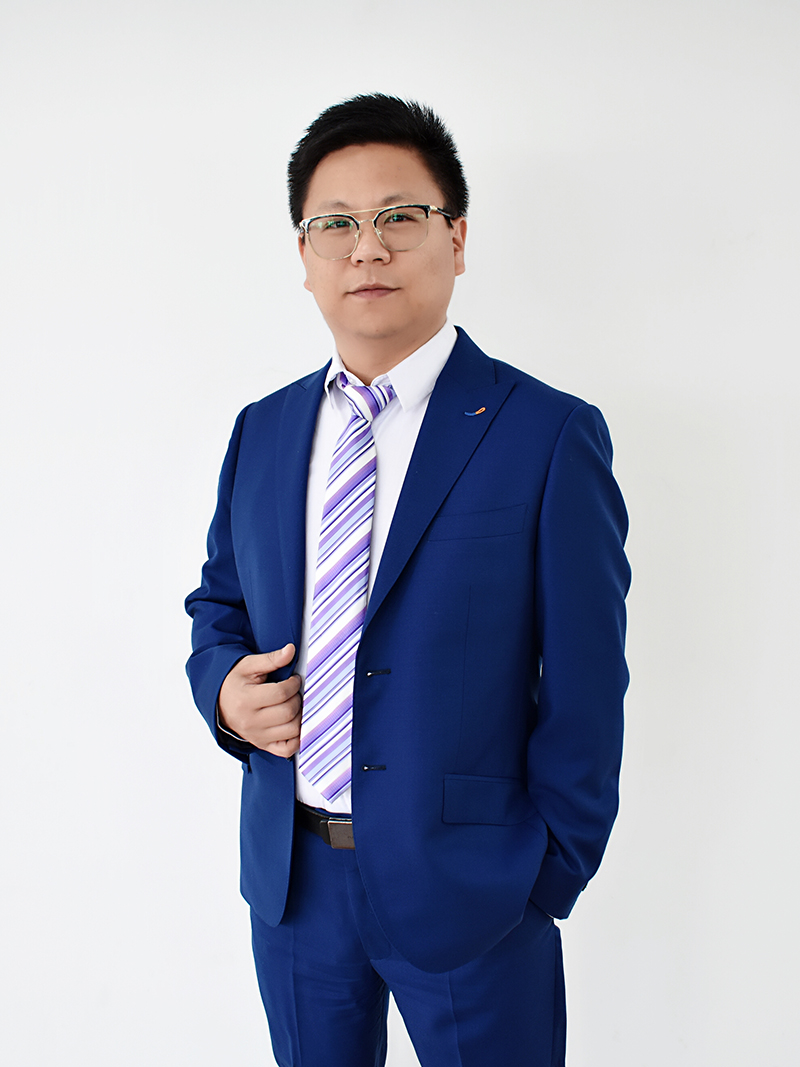
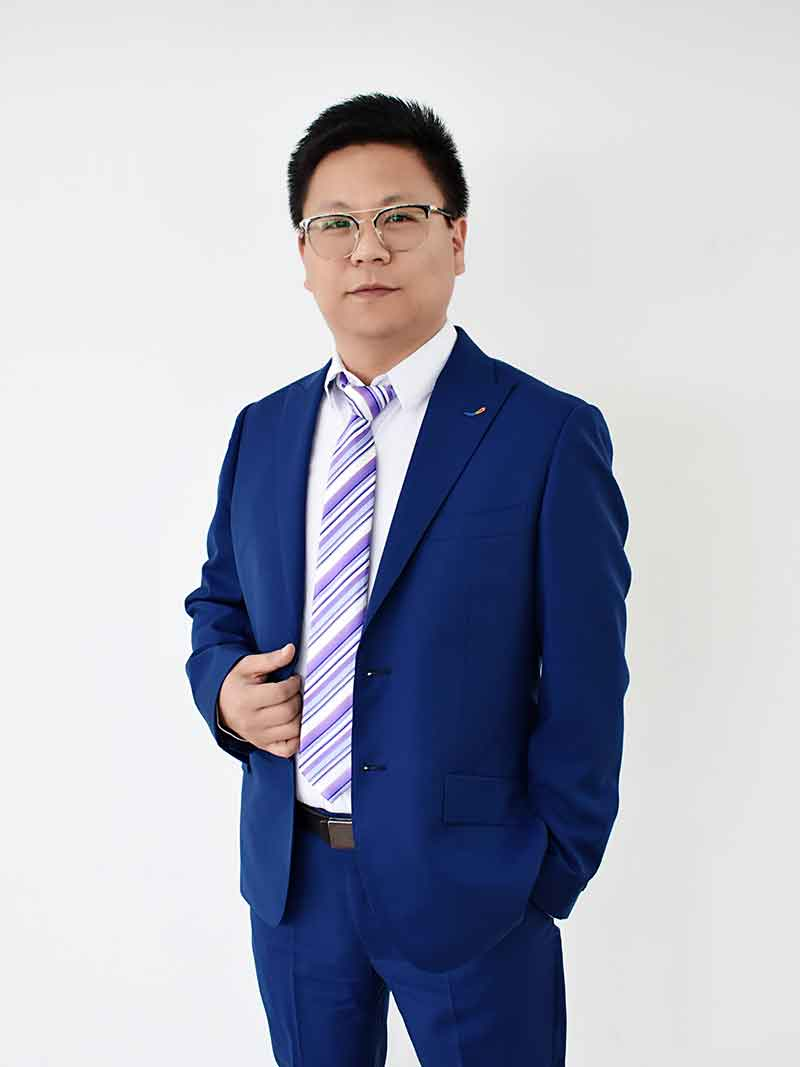
修改图片大小

diff --git a/www/teacher.html b/www/teacher.html
@@ -98,7 +98,7 @@
           </div>
           <div class="swiper-slide swiper-slide5">
             <h3>付起运</h3>
-            <img src="/img/teacher/yin5.png" />
+            <img src="/img/teacher/yin5.jpg" />
             <div>声乐老师</div>
             <p>湖南省安文化艺术团原红十字志愿者艺术团独唱演员兼外联部主任，湖南省音乐家协会男高音联盟会员。毕业于湖南师范大学音乐学院，先后师从湖南师范大学音乐学院李萍教授，中国音乐学院马秀云教授，中国著名男高音歌唱家，歌剧表演艺术家柳石明。</p>
             <a href="javascript:;">详情</a>
@@ -117,69 +117,55 @@
               <p>毕业于四川音乐学院声乐系。师从于四川音乐家协会主席旅美女高音歌唱家张莉教授。著名男中音歌唱家,国家一级演员,蓝幼青教授。受邀至美国科罗拉多州立大学音乐学院学习。2017年在四川音乐学院教授唐科学带领下进入高考声乐专家组学习工作。曾获得全国文艺双馨美声组金奖。从业至今，为全国各大专业院校输送了大量优秀人才，并授予教育厅颁发省优秀艺术教师荣誉称号。</p>
               <a href="javascript:;">详情</a>
           </div>
-          <div class="swiper-slide swiper-slide8">
-            <h3>杨晓琴</h3>
-            <img src="/img/teacher/yin4.jpg" />
-            <div>声乐老师</div>
-            <p>声乐硕士研究生，毕业于武汉音乐学院，并获得华中师范大学声乐艺术研究专业硕士学位。自幼学习音乐，多次参加国家、省市级比赛获奖，本科期间获国家励志奖学金，曾担任华中师大本科声乐专业外聘教师两年，并指导学生参赛获奖；所教艺考学子曾考入武汉音乐学院、华中师范大学等院校；教学上注重系统性，并追求声乐之为“美”之所在。</p>
-            <a href="javascript:;">详情</a>
-          </div>
         </div>
         <div class="swiper-wrapper" id="slides3">
           <div class="swiper-slide swiper-slide1 active">
               <h3>郑晶晶</h3>
-              <img src="/img/teacher/w1.png" />
+              <img src="/img/teacher/w1.jpg" />
               <div>舞蹈部主任</div>
               <p>毕业于北京舞蹈学院，中国师舞堂华彩金牌教师，舞蹈考级考官，曾任职于北京保安艺术团舞蹈编导，长沙舞协青年编导，从事高考舞蹈教学十余年，有着丰富的教学经验，对舞蹈教学教改有着深入的研究，有一套自己的专业教学体系，始终秉承北舞专业严谨的教学理念，每年为北京舞蹈学院，中央民族大学等各大知名艺术院校输送多名优秀学生</p>
               <a href="javascript:;">详情</a>
           </div>
           <div class="swiper-slide swiper-slide2">
               <h3>禹德荣</h3>
-              <img src="/img/teacher/w2.png" />
+              <img src="/img/teacher/w2.jpg" />
               <div>毯技老师</div>
               <p>在武生行当里：现代戏，古装戏中担任各种武行角色，如红色娘子军中小庞，杜鹃山中杜小山，古装戏中有赵云等，而后开始去南舞，北舞、上海学习舞蹈武功，改行舞蹈毯技教学二十来年，在长沙舞蹈学校，湖南省艺术职业学校担任舞蹈毯技老师，培养很多优秀的学生。二零一五年受电视剧女人的抗战：导演彭井泉邀请参加了：兰亭墨华剧组的拍摄，担任千里眼一角色。</p>
               <a href="javascript:;">详情</a>
           </div>
           <div class="swiper-slide swiper-slide3">
               <h3>吴伟强</h3>
-              <img src="/img/teacher/w3.png" />
+              <img src="/img/teacher/w3.jpg" />
               <div>舞蹈老师</div>
               <p>毕业于中央民族大学 舞蹈表演专业，2011年新加坡金狮奖音乐舞蹈大赛《花开时节》金奖，专业科班出身，擅长基训、民族民间舞教学。</p>
               <a href="javascript:;">详情</a>
           </div>
           <div class="swiper-slide swiper-slide4">
               <h3>周琪</h3>
-              <img src="/img/teacher/w4.png" />
+              <img src="/img/teacher/w4.jpg" />
               <div>舞蹈老师</div>
               <p>主攻中国古典舞，持有中国舞蹈家协会1-10级高级证书，湖南省舞蹈家协会1-12级证书，在校期间荣获基本功大赛一等奖，武汉校区中法音乐节演出，代表湖北省参加全国少数民族运动会的开幕。                </p>
               <a href="javascript:;">详情</a>
           </div>
           <div class="swiper-slide swiper-slide5">
               <h3>柏妍芳</h3>
-              <img src="/img/teacher/w5.png" />
+              <img src="/img/teacher/w5.jpg" />
               <div>舞蹈老师</div>
               <p>从艺术附中到大学一直接受系统的舞蹈学习。拥有全国认证的高级教师资格证，是中国舞蹈荷花联盟华彩中国舞金牌教师。一直从事舞蹈课程教学，教龄10年。在教学过程中工作严谨，因材施教，培养了不少优秀的舞蹈学员在小升初，初升高，艺术高考中获得了不错的成绩，进入了理想的学府。                </p>
               <a href="javascript:;">详情</a>
           </div>
           <div class="swiper-slide swiper-slide6">
               <h3>楚婷</h3>
-              <img src="/img/teacher/w6.png" />
+              <img src="/img/teacher/w6.jpg" />
               <div>身韵老师</div>
               <p>毕业于北京舞蹈学院，从事中国舞教学10余年，拥有北京舞蹈中国舞教师资格证、师舞堂中国舞金牌教师！长期从事艺考培训，培养了大批艺术特长生考入重点大学和艺术院校。</p>
               <a href="javascript:;">详情</a>
           </div>
           <div class="swiper-slide swiper-slide7">
               <h3>刘鑫</h3>
-              <img src="/img/teacher/w7.png" />
+              <img src="/img/teacher/w7.jpg" />
               <div>舞蹈老师</div>
               <p>毕业于山东大学舞蹈系，拥有较强的专业知识和技能，曾获2017年山东省优秀演员优秀奖，并在2016年山东省师生基本功大赛获一等奖并担任领舞，在山东省青少年舞蹈大赛中获群舞一等奖4次个人单项一等奖2次，2013年高中在株洲市第八中学参加全国中小学艺术展演获银奖，大学在校参演舞剧<西楚霸王>排练并协助专业老师的教学工作，担任项庄一角。在舞台表演方面有丰富的演出经验及应变能力。</p>
-              <a href="javascript:;">详情</a>
-          </div>
-          <div class="swiper-slide swiper-slide8">
-              <h3>周琪</h3>
-              <img src="/img/teacher/w4.png" />
-              <div>舞蹈老师</div>
-              <p>主攻中国古典舞，持有中国舞蹈家协会1-10级高级证书，湖南省舞蹈家协会1-12级证书，在校期间荣获基本功大赛一等奖，武汉校区中法音乐节演出，代表湖北省参加全国少数民族运动会的开幕。                </p>
               <a href="javascript:;">详情</a>
           </div>
         </div>
